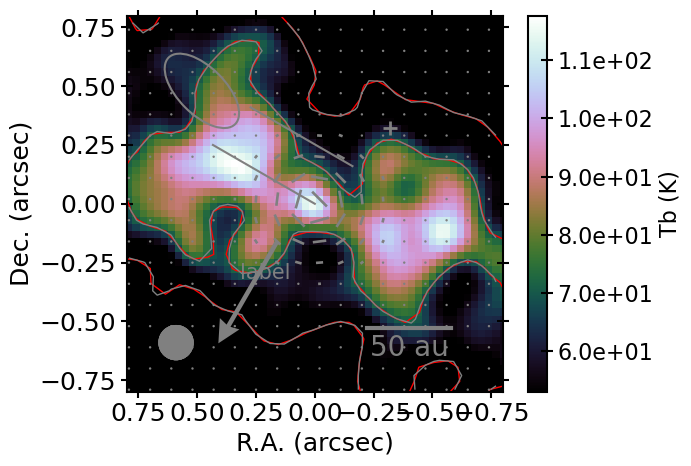
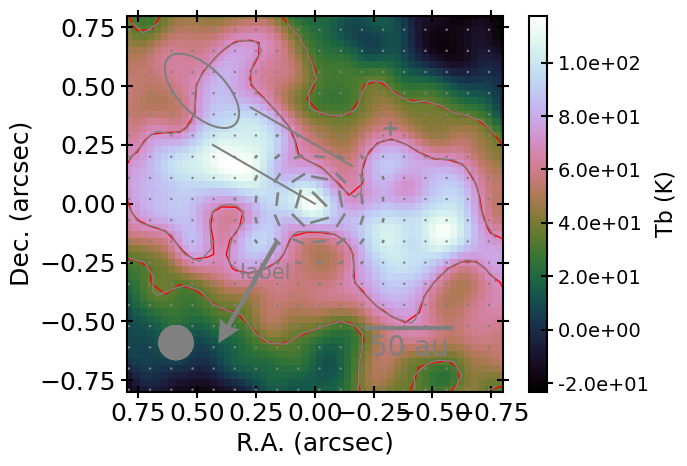
all methods are in the base class.

diff --git a/plotastrodata/plot_utils.py b/plotastrodata/plot_utils.py
@@ -73,7 +73,21 @@ class plotastroND():
         self.allchan, self.bottomleft = [0], [0]
         self.ax = []
         self.npages = 1
+        self.nchan = 1
+        self.nv = 1
+        self.vskip = 1
         self.ch2nij = lambda _: [0, 0, 0]
+
+    def skipfill(self, c: list, skip: int = 1,
+                   vskip: int = 1, nv: int = 1, nchan: int = 1) -> list:
+        if np.ndim(c) == 3:
+            d = c[::vskip, ::skip, ::skip]
+        else:
+            d = c[::skip, ::skip]
+            d = np.full((nv, *np.shape(d)), d)
+        shape = (nchan - len(d), len(d[0]), len(d[0, 0]))
+        dnan = np.full(shape, d[0] * np.nan)
+        return np.concatenate((d, dnan), axis=0)
         
     def add_ellipse(self, poslist: list = [],
                     majlist: list = [], minlist: list = [], palist: list = [],
@@ -165,7 +179,120 @@ class plotastroND():
             x, y = rel2abs(xrel, yrel, self.xlim, self.ylim)
             axnow.plot([x - length/2., x + length/2.], [y, y],
                        '-', linewidth=linewidth, color=color)
-        
+    
+    def add_color(self, fitsimage: str = None,
+                  x: list = None, y: list = None, skip: int = 1,
+                  v: list = None, c: list = None,
+                  restfrq: float = None,
+                  Tb: bool = False, log: bool = False,
+                  show_cbar: bool = True,
+                  cblabel: str = None, cbformat: float = '%.1e',
+                  cbticks: list = None, cbticklabels: list = None,
+                  show_beam: bool = True, beamcolor: str = 'gray',
+                  bmaj: float = 0., bmin: float = 0.,
+                  bpa: float = 0., **kwargs) -> None:
+        kwargs0 = {'cmap':'cubehelix', 'alpha':1, 'zorder':1}
+        if fitsimage is None:
+            bunit, rms = '', estimate_rms(c, 'out')
+            c, (x, y) = readdata(x, y, v, self.lims, c)    
+        else:
+            c, (x, y), (bmaj, bmin, bpa), bunit, rms \
+                = readfits(self, fitsimage, Tb, 'out', restfrq)
+        if log: c = np.log10(c.clip(c[c > 0].min(), None))
+        if 'vmin' in kwargs:
+            if log: kwargs['vmin'] = np.log10(kwargs['vmin'])
+        else:
+            kwargs['vmin'] = np.log10(rms) if log else np.nanmin(c)
+        if 'vmax' in kwargs:
+            if log: kwargs['vmax'] = np.log10(kwargs['vmax'])
+        else:
+            kwargs['vmax'] = np.nanmax(c)
+        c = c.clip(kwargs['vmin'], kwargs['vmax'])
+        x, y = x[::skip], y[::skip]
+        c = self.skipfill(c, skip, self.vskip, self.nv, self.nchan)
+        for ch, (axnow, cnow) in enumerate(zip(self.ax, c)):
+            p = axnow.pcolormesh(x, y, cnow, shading='nearest',
+                                 **dict(kwargs0, **kwargs))
+        for ch in self.bottomleft:
+            if not show_cbar:
+                break
+            cblabel = bunit if cblabel is None else cblabel
+            plt.figure(self.ch2nij(ch)[0])
+            if len(self.ax) == 1:
+                ax = self.ax[0]
+                cb = plt.colorbar(p, ax=ax, label=cblabel, format=cbformat)
+            else:
+                cax = plt.axes([0.88, 0.105, 0.015, 0.77])
+                cb = plt.colorbar(p, cax=cax, label=cblabel, format=cbformat)
+            cb.ax.tick_params(labelsize=14)
+            font = mpl.font_manager.FontProperties(size=16)
+            cb.ax.yaxis.label.set_font_properties(font)
+            if not (cbticks is None):
+                cb.set_ticks(np.log10(cbticks) if log else cbticks)
+            if not (cbticklabels is None):
+                cb.set_ticklabels(cbticklabels)
+            elif log:
+                cb.set_ticks(t := cb.get_ticks())
+                cb.set_ticklabels([f'{d:.1e}' for d in 10**t])
+        if show_beam:
+            self.add_beam(bmaj, bmin, bpa, beamcolor)
+
+    def add_contour(self, fitsimage: str = None,
+                    x: list = None, y: list = None, skip: int = 1,
+                    v: list = None, c: list = None,
+                    restfrq: float = None,
+                    sigma: str or float = 'edge',
+                    levels: list = [-12,-6,-3,3,6,12,24,48,96,192,384],
+                    Tb: bool = False,
+                    show_beam: bool = True, beamcolor: str = 'gray',
+                    bmaj: float = 0., bmin: float = 0., bpa: float = 0.,
+                    **kwargs) -> None:
+        kwargs0 = {'colors':'gray', 'linewidths':1.0, 'zorder':2}
+        if fitsimage is None:
+            if np.ndim(c) == 2 and sigma == 'edge': sigma = 'out'
+            rms = estimate_rms(c, sigma)
+            c, (x, y) = readdata(x, y, v, self.lims, c)
+        else:
+            c, (x, y), (bmaj, bmin, bpa), _, rms \
+                = readfits(self, fitsimage, Tb, sigma, restfrq)
+        x, y = x[::skip], y[::skip]
+        c = self.skipfill(c, skip, self.vskip, self.nv, self.nchan)
+        for axnow, cnow in zip(self.ax, c):
+            axnow.contour(x, y, cnow, np.array(levels) * rms,
+                          **dict(kwargs0, **kwargs))
+        if show_beam:
+            self.add_beam(bmaj, bmin, bpa, beamcolor)
+            
+    def add_segment(self, ampfits: str = None, angfits: str = None,
+                    x: list = None, y: list = None, skip: int = 1,
+                    v: list = None, amp: list = None, ang: list = None,
+                    ampfactor: float = 1.,
+                    show_beam: bool = True, beamcolor: str = 'gray',
+                    bmaj: float = 0., bmin: float = 0., bpa: float = 0.,
+                    **kwargs) -> None:
+        kwargs0 = {'angles':'xy', 'scale_units':'xy', 'color':'gray',
+                   'pivot':'mid', 'headwidth':0, 'headlength':0,
+                   'headaxislength':0, 'width':0.007, 'zorder':3}
+        if ampfits is None:
+            amp, (x, y) = readdata(x, y, v, self.lims, amp)
+        else:
+            amp, (x, y), (bmaj, bmin, bpa), _, _ = readfits(self, ampfits)
+        if angfits is None:
+            ang, (x, y) = readdata(x, y, v, self.lims, ang)
+        else:
+            ang, (x, y), (bmaj, bmin, bpa), _, _ = readfits(self, angfits)
+        if amp is None: amp = np.ones_like(ang)
+        x, y = x[::skip], y[::skip]
+        amp = self.skipfill(amp, skip, self.vskip, self.nv, self.nchan)
+        ang = self.skipfill(ang, skip, self.vskip, self.nv, self.nchan)
+        u = ampfactor * amp * np.sin(np.radians(ang))
+        v = ampfactor * amp * np.cos(np.radians(ang))
+        kwargs0['scale'] = 1. / np.abs(x[1] - x[0])
+        for axnow, unow, vnow in zip(self.ax, u, v):
+            axnow.quiver(x, y, unow, vnow, **dict(kwargs0, **kwargs))
+        if show_beam:
+            self.add_beam(bmaj, bmin, bpa, beamcolor)
+    
     def set_axis(self, xticks: list = None, yticks: list = None,
                  xticksminor: list = None, yticksminor: list = None,
                  xticklabels: list = None, yticklabels: list= None,
@@ -246,105 +373,7 @@ class plotastro2D(plotastroND):
         set_rcparams(fontsize=18)
         fig = plt.figure(0, figsize=(7, 5)) if fig is None else fig
         self.ax = [fig.add_subplot(1, 1, 1) if ax is None else ax]
-    
-    def add_color(self, fitsimage: str = None,
-                   x: list = None, y: list = None, skip: int = 1,
-                   c: list = None, restfrq: float = None,
-                   Tb: bool = False, log: bool = False,
-                   show_cbar: bool = True,
-                   cblabel: str = None, cbformat: float = '%.1e',
-                   cbticks: list = None, cbticklabels: list = None,
-                   show_beam: bool = True, beamcolor: str = 'gray',
-                   bmaj: float = 0., bmin: float = 0.,
-                   bpa: float = 0., **kwargs) -> None:
-        kwargs0 = {'cmap':'cubehelix', 'alpha':1, 'zorder':1}
-        if fitsimage is None:
-            bunit, rms = '', estimate_rms(c, 'out')
-            c, (x, y) = readdata(x, y, None, self.lims, c)
-        else:
-            c, (x, y), (bmaj, bmin, bpa), bunit, rms \
-                = readfits(self, fitsimage, Tb, 'out', restfrq)
-        x, y = x[::skip], y[::skip]
-        c = c[::skip, ::skip]
-        if log: c = np.log10(c.clip(c[c > 0].min(), None))
-        if 'vmin' in kwargs:
-            if log: kwargs['vmin'] = np.log10(kwargs['vmin'])
-        else:
-            kwargs['vmin'] = np.log10(rms) if log else np.nanmean(c)
-        if 'vmax' in kwargs:
-            if log: kwargs['vmax'] = np.log10(kwargs['vmax'])
-        else:
-            kwargs['vmax'] = np.nanmax(c)
-        c = c.clip(kwargs['vmin'], kwargs['vmax'])
-        p = self.ax[0].pcolormesh(x, y, c, shading='nearest',
-                               **dict(kwargs0, **kwargs))
-        if show_cbar:
-            cblabel = bunit if cblabel is None else cblabel
-            cb = plt.colorbar(p, ax=self.ax[0], label=cblabel, format=cbformat)
-            cb.ax.tick_params(labelsize=16)
-            font = mpl.font_manager.FontProperties(size=16)
-            cb.ax.yaxis.label.set_font_properties(font)
-            if not (cbticks is None):
-                cb.set_ticks(np.log10(cbticks) if log else cbticks)
-            if not (cbticklabels is None):
-                cb.set_ticklabels(cbticklabels)
-            elif log:
-                cb.set_ticks(t := cb.get_ticks())
-                cb.set_ticklabels([f'{d:.1e}' for d in 10**t])
-        if show_beam:
-            self.add_beam(bmaj, bmin, bpa, beamcolor)
-            
-    def add_contour(self, fitsimage: str = None,
-                    x: list = None, y: list = None, skip: int = 1,
-                    c: list = None, restfrq: float = None,
-                    sigma: str or float = 'out',
-                    levels: list = [-12,-6,-3,3,6,12,24,48,96,192,384],
-                    Tb: bool = False,
-                    show_beam: bool = True, beamcolor: str = 'gray',
-                    bmaj: float = 0., bmin: float = 0., bpa: float = 0.,
-                    **kwargs) -> None:
-        kwargs0 = {'colors':'gray', 'linewidths':1.0, 'zorder':2}
-        if fitsimage is None:
-            rms = estimate_rms(c, sigma)
-            c, (x, y) = readdata(x, y, None, self.lims, c)
-        else:
-            c, (x, y), (bmaj, bmin, bpa), _, rms \
-                = readfits(self, fitsimage, Tb, sigma, restfrq)
-        x, y = x[::skip], y[::skip]
-        c = c[::skip, ::skip]
-        self.ax[0].contour(x, y, c, np.array(levels) * rms,
-                        **dict(kwargs0, **kwargs))
-        if show_beam:
-            self.add_beam(bmaj, bmin, bpa, beamcolor)
-    
-    def add_segment(self, ampfits: str = None, angfits: str = None,
-                    x: list = None, y: list = None, skip: int = 1,
-                    amp: list = None, ang: list = None,
-                    ampfactor: float = 1.,
-                    show_beam: bool = True, beamcolor: str = 'gray',
-                    bmaj: float = 0., bmin: float = 0., bpa: float = 0.,
-                    **kwargs) -> None:
-        kwargs0 = {'angles':'xy', 'scale_units':'xy', 'color':'gray',
-                   'pivot':'mid', 'headwidth':0, 'headlength':0,
-                   'headaxislength':0, 'width':0.007, 'zorder':3}
-        if ampfits is None:
-            amp, (x, y) = readdata(x, y, None, self.lims, amp)
-        else:
-            amp, (x, y), (bmaj, bmin, bpa), _, _ = readfits(self, ampfits)
-        if angfits is None:
-            ang, (x, y) = readdata(x, y, None, self.lims, ang)
-        else:
-            ang, (x, y), (bmaj, bmin, bpa), _, _ = readfits(self, angfits)
-        if amp is None: amp = np.ones_like(ang)
-        x, y = x[::skip], y[::skip]
-        amp, ang = amp[::skip, ::skip], ang[::skip, ::skip]
-        u = ampfactor * amp * np.sin(np.radians(ang))
-        v = ampfactor * amp * np.cos(np.radians(ang))
-        kwargs0['scale'] = 1. / np.abs(x[1] - x[0])
-        self.ax[0].quiver(x, y, u, v, **dict(kwargs0, **kwargs))
-        if show_beam:
-            self.add_beam(bmaj, bmin, bpa, beamcolor)
-    
+ 
             
 class plotastro3D(plotastroND):
     """Make a figure from 3D FITS files or 3D arrays.
@@ -396,126 +425,9 @@ class plotastro3D(plotastroND):
                         rf'${v[ch]:.{veldigit:d}f}$', color='black',
                         backgroundcolor='white', zorder=20)
         
-        self.nij2ch, self.ch2nij = nij2ch, ch2nij  
+        self.ch2nij = ch2nij  
         self.ax = ax
         self.vskip, self.nv = vskip, nv
         self.npages, self.nchan = npages, nchan
         self.allchan = np.arange(nchan)
         self.bottomleft = nij2ch(np.arange(npages), nrows - 1, 0)
-            
-    def __fill(self, c: list, skip: int = 1) -> list:
-        if np.ndim(c) == 3:
-            d = c[::self.vskip, ::skip, ::skip]
-        else:
-            d = c[::skip, ::skip]
-            d = np.full((self.nv, *np.shape(d)), d)
-        shape = (self.nchan - len(d), len(d[0]), len(d[0, 0]))
-        dnan = np.full(shape, d[0] * np.nan)
-        return np.concatenate((d, dnan), axis=0)
-
-    def add_color(self, fitsimage: str = None,
-                  x: list = None, y: list = None, skip: int = 1,
-                  v: list = None, c: list = None,
-                  restfrq: float = None,
-                  Tb: bool = False, log: bool = False,
-                  show_cbar: bool = True,
-                  cblabel: str = None, cbformat: float = '%.1e',
-                  cbticks: list = None, cbticklabels: list = None,
-                  show_beam: bool = True, beamcolor: str = 'gray',
-                  bmaj: float = 0., bmin: float = 0.,
-                  bpa: float = 0., **kwargs) -> None:
-        kwargs0 = {'cmap':'cubehelix', 'alpha':1, 'zorder':1}
-        if fitsimage is None:
-            bunit, rms = '', estimate_rms(c, 'out')
-            c, (x, y) = readdata(x, y, v, self.lims, c)    
-        else:
-            c, (x, y), (bmaj, bmin, bpa), bunit, rms \
-                = readfits(self, fitsimage, Tb, 'out', restfrq)
-        if log: c = np.log10(c.clip(c[c > 0].min(), None))
-        if 'vmin' in kwargs:
-            if log: kwargs['vmin'] = np.log10(kwargs['vmin'])
-        else:
-            kwargs['vmin'] = np.log10(rms) if log else np.nanmin(c)
-        if 'vmax' in kwargs:
-            if log: kwargs['vmax'] = np.log10(kwargs['vmax'])
-        else:
-            kwargs['vmax'] = np.nanmax(c)
-        c = c.clip(kwargs['vmin'], kwargs['vmax'])
-        x, y = x[::skip], y[::skip]
-        c = self.__fill(c, skip)
-        for ch, (axnow, cnow) in enumerate(zip(self.ax, c)):
-            p = axnow.pcolormesh(x, y, cnow, shading='nearest',
-                                 **dict(kwargs0, **kwargs))
-            if not (show_cbar and ch % (self.nchan//self.npages) == 0):
-                continue
-            plt.figure(self.ch2nij(ch)[0])
-            cblabel = bunit if cblabel is None else cblabel
-            cax = plt.axes([0.88, 0.105, 0.015, 0.77])
-            cb = plt.colorbar(p, cax=cax, label=cblabel, format=cbformat)
-            cb.ax.tick_params(labelsize=14)
-            font = mpl.font_manager.FontProperties(size=16)
-            cb.ax.yaxis.label.set_font_properties(font)
-            if not (cbticks is None):
-                cb.set_ticks(np.log10(cbticks) if log else cbticks)
-            if not (cbticklabels is None):
-                cb.set_ticklabels(cbticklabels)
-            elif log:
-                cb.set_ticks(t := cb.get_ticks())
-                cb.set_ticklabels([f'{d:.1e}' for d in 10**t])
-        if show_beam:
-            self.add_beam(bmaj, bmin, bpa, beamcolor)
-
-    def add_contour(self, fitsimage: str = None,
-                    x: list = None, y: list = None, skip: int = 1,
-                    v: list = None, c: list = None,
-                    restfrq: float = None,
-                    sigma: str or float = 'edge',
-                    levels: list = [-12,-6,-3,3,6,12,24,48,96,192,384],
-                    Tb: bool = False,
-                    show_beam: bool = True, beamcolor: str = 'gray',
-                    bmaj: float = 0., bmin: float = 0., bpa: float = 0.,
-                    **kwargs) -> None:
-        kwargs0 = {'colors':'gray', 'linewidths':1.0, 'zorder':2}
-        if fitsimage is None:
-            if np.ndim(c) == 2 and sigma == 'edge': sigma = 'out'
-            rms = estimate_rms(c, sigma)
-            c, (x, y) = readdata(x, y, v, self.lims, c)
-        else:
-            c, (x, y), (bmaj, bmin, bpa), _, rms \
-                = readfits(self, fitsimage, Tb, sigma, restfrq)
-        x, y = x[::skip], y[::skip]
-        c = self.__fill(c, skip)
-        for axnow, cnow in zip(self.ax, c):
-            axnow.contour(x, y, cnow, np.array(levels) * rms,
-                          **dict(kwargs0, **kwargs))
-        if show_beam:
-            self.add_beam(bmaj, bmin, bpa, beamcolor)
-            
-    def add_segment(self, ampfits: str = None, angfits: str = None,
-                    x: list = None, y: list = None, skip: int = 1,
-                    v: list = None, amp: list = None, ang: list = None,
-                    ampfactor: float = 1.,
-                    show_beam: bool = True, beamcolor: str = 'gray',
-                    bmaj: float = 0., bmin: float = 0., bpa: float = 0.,
-                    **kwargs) -> None:
-        kwargs0 = {'angles':'xy', 'scale_units':'xy', 'color':'gray',
-                   'pivot':'mid', 'headwidth':0, 'headlength':0,
-                   'headaxislength':0, 'width':0.007, 'zorder':3}
-        if ampfits is None:
-            amp, (x, y) = readata(x, y, v, self.lims, amp)
-        else:
-            amp, (x, y), (bmaj, bmin, bpa), _, _ = readfits(self, ampfits)
-        if angfits is None:
-            ang, (x, y) = readata(x, y, v, self.lims, ang)
-        else:
-            ang, (x, y), (bmaj, bmin, bpa), _, _ = readfits(self, angfits)
-        if amp is None: amp = np.ones_like(ang)
-        x, y = x[::skip], y[::skip]
-        amp, ang = self.__fill(amp, skip), self.__fill(ang, skip)
-        u = ampfactor * amp * np.sin(np.radians(ang))
-        v = ampfactor * amp * np.cos(np.radians(ang))
-        kwargs0['scale'] = 1. / np.abs(x[1] - x[0])
-        for axnow, unow, vnow in zip(self.ax, u, v):
-            axnow.quiver(x, y, unow, vnow, **dict(kwargs0, **kwargs))
-        if show_beam:
-            self.add_beam(bmaj, bmin, bpa, beamcolor)
